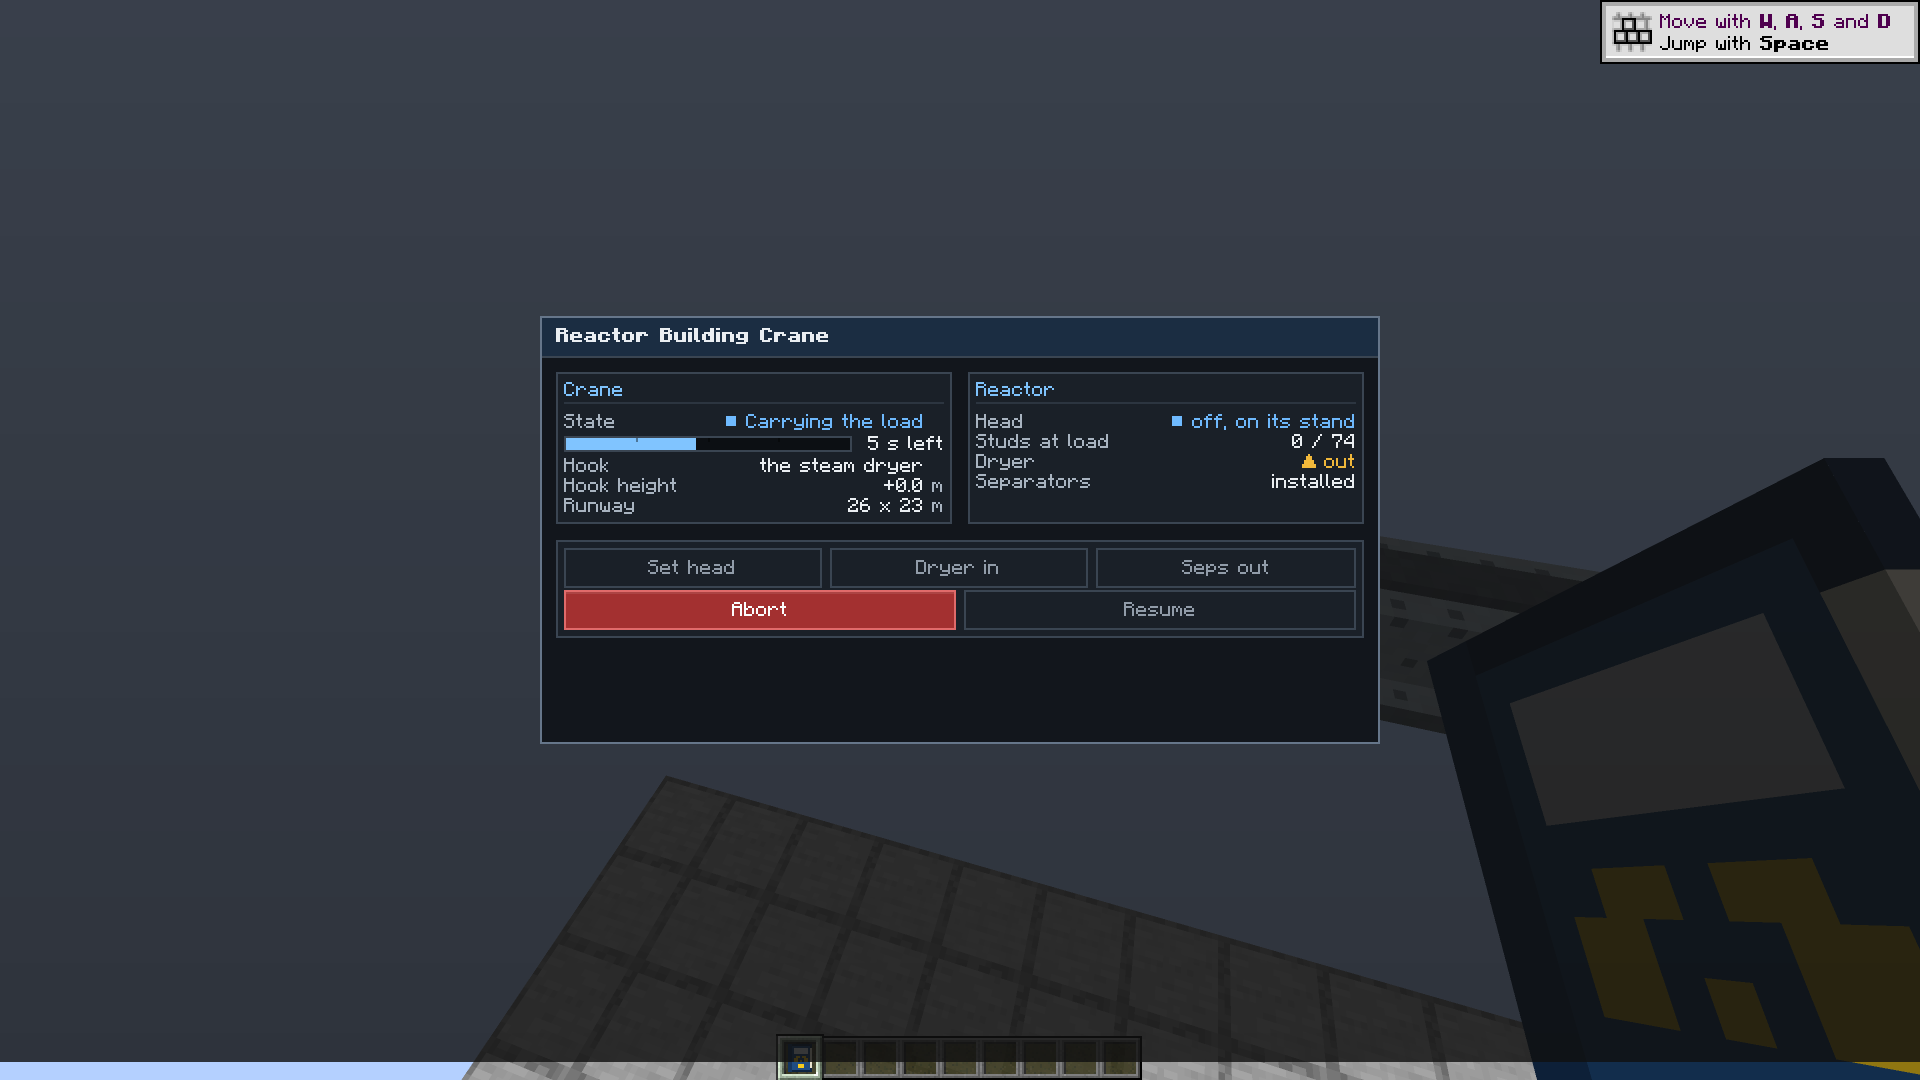
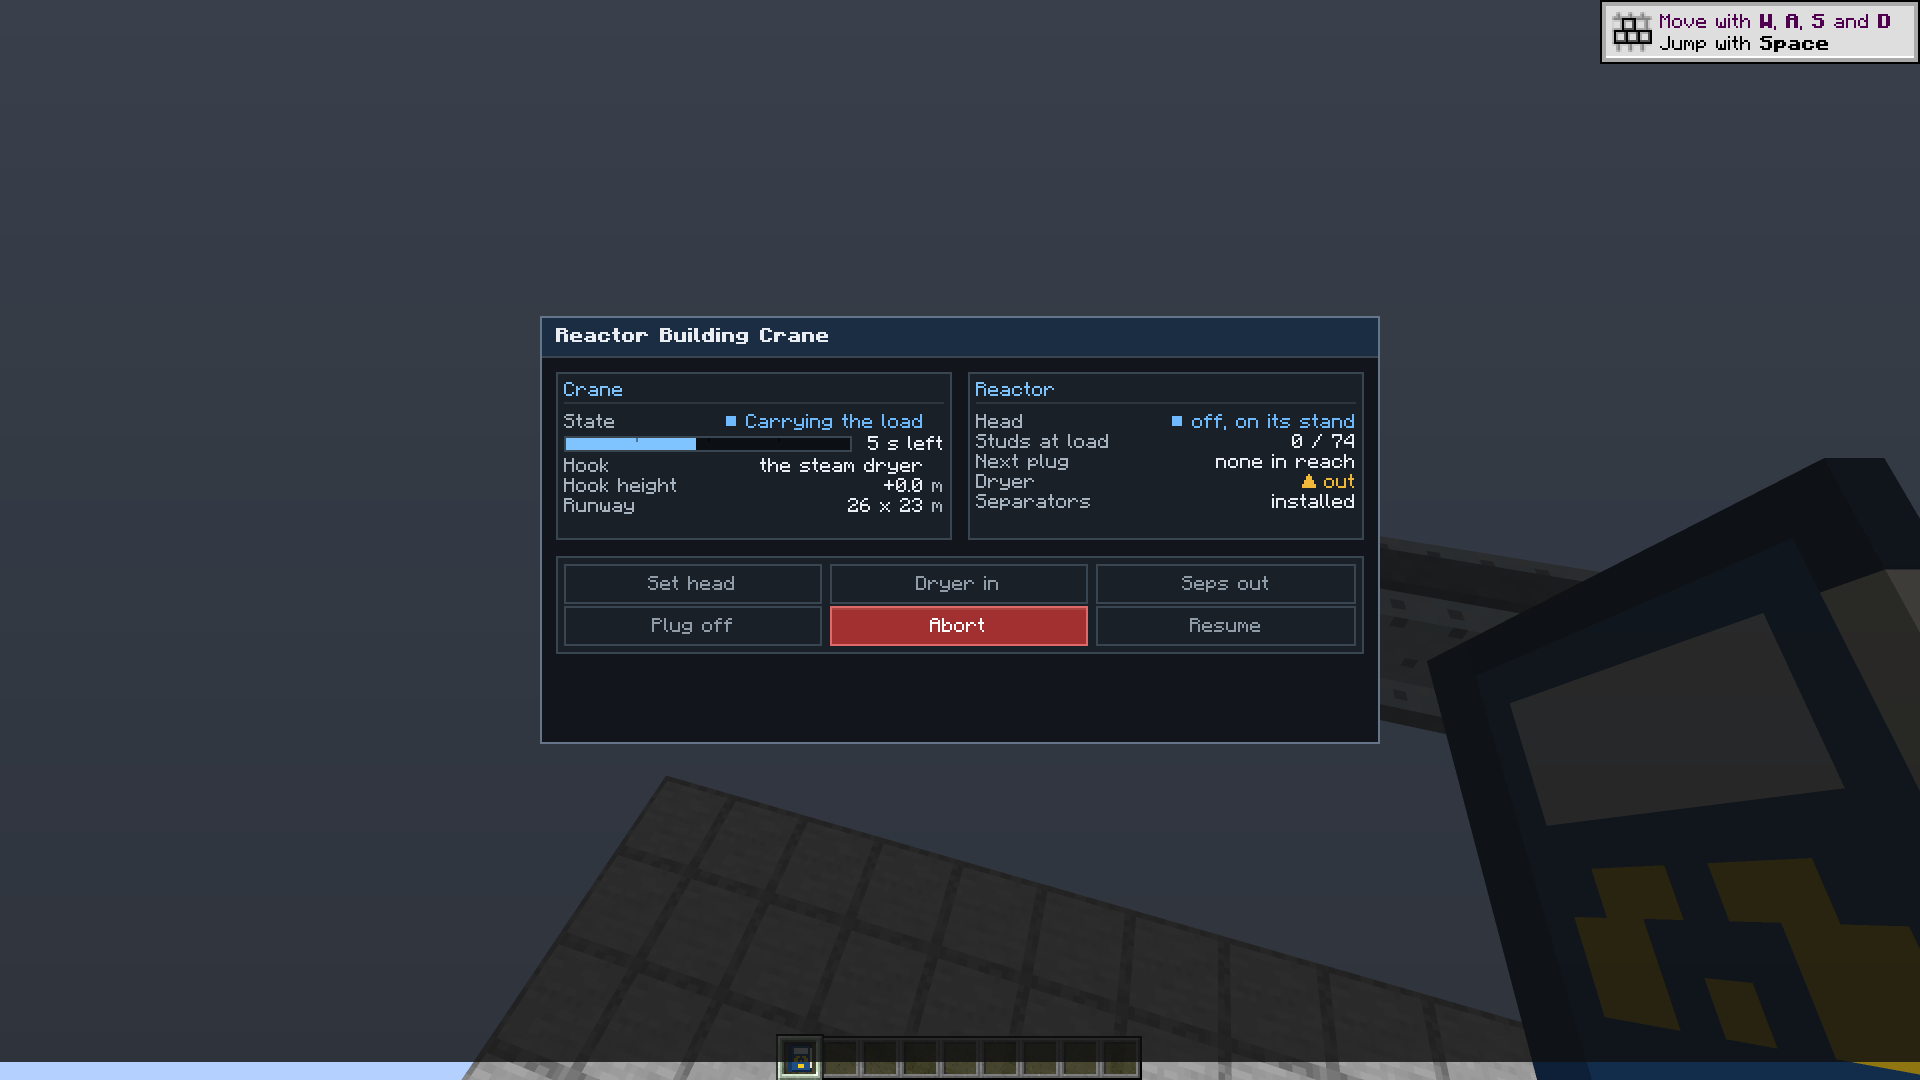
Plug lift: pictures (stepped plug, section on the hook, set down, open well), pendant picture, docs

Changed region(s): [[0.2812, 0.4278, 0.7188, 0.6111]]

diff --git a/BUILDING-CRANE.md b/BUILDING-CRANE.md
@@ -253,6 +253,16 @@ From `-PbwrBuildingCraneCheck` (`BuildingCraneClientCheck`), a real client, the 
 
 ![The pendant screen](art/building-crane/crane-pendant-screen.png)
 
+Shield plug lifting (the same check):
+
+![A stepped plug over the well with its crane anchors, seamed into a west and east slab and a stepped top](art/building-crane/plug-stepped-with-anchors-and-seams.png)
+
+![The stepped top section hanging from the hook on four slings, a plug section entity](art/building-crane/plug-section-on-the-hook.png)
+
+![The section set down on the refuel floor, the slabs still on the well](art/building-crane/plug-section-set-down.png)
+
+![The well open, every section off](art/building-crane/plug-open-well.png)
+
 Also in the set: `tensioner-screen.png` and `studs-detensioned-nuts-off.png`. The Workbench review renders of the Blender parts are in `art/models/building_crane/`.
 
 ## Performance, chunks, saves
